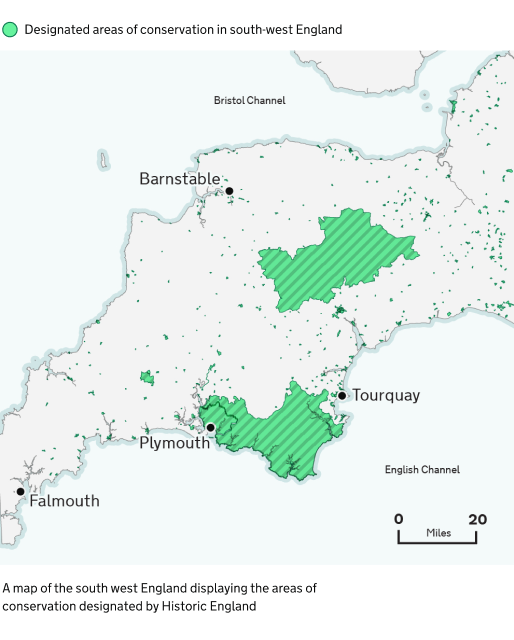
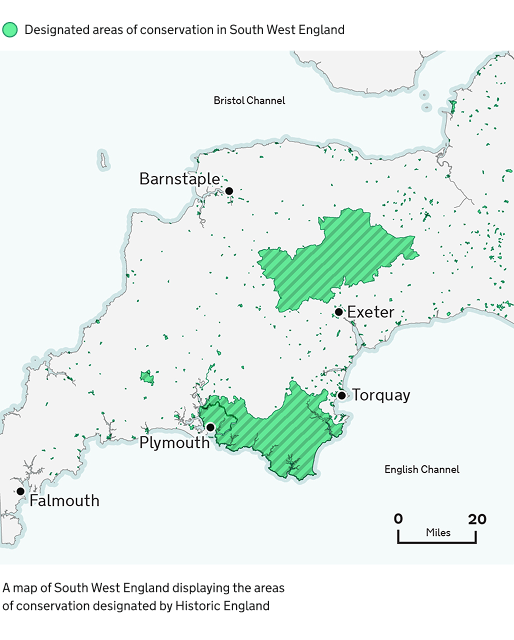
Small content change requests from the Brand team

diff --git a/src/data/maps/index.md b/src/data/maps/index.md
@@ -68,7 +68,7 @@ Secondary features should fall to the background and not be as immediately prese
 
 ### Remove extraneous features
 
-Less is more. If features are not part of a story, feel free to remove them (for example: roads, rivers, rails, pipelines, and even country labels). Feel free to thin out line work.
+Less is more. If features are not part of a story, feel free to thin out networks of line work or remove features that are not part of a story. This can include features such as roads, rivers, rails, pipelines and even country labels.
 
 ### Projections
 
@@ -81,3 +81,33 @@ Ask yourself: What is the map’s purpose and what is the best type of projectio
 Scale bars are not always needed on a map, but are often helpful. If a map has anything to do with distance or shows features that a user would be curious how far apart they are, add a scale bar. If measuring distance is not helpful for the reader to understand the story, do not include one.
 
 Scale bars are not always appropriate on all map projections (for example, Orthographic and Robinson). At global map extents for instance, scale bars are not as useful as the scale may vary significantly from one part of the map to another.
+
+## Map accessibility
+
+When you create maps, make sure they are accessible to everyone.
+
+### Content
+
+Every map should include a text description. This helps users who use screen readers understand what the map is visualising. If the map is simple, a short sentence may be enough. For more complex maps, include a longer explanation near the map or link to a separate page with more detail.
+
+Use clear labels and ensure the structure of the page helps assistive technologies understand the content.
+
+If the map includes important data, provide another way for users to access it, such as a table or written summary.
+
+### Colour
+
+Do not use colour as the only way to show differences on a map. People who are colour blind may not be able to tell certain colours apart.
+
+Use patterns, shapes or clear labels alongside colour to help visualise the data to users.
+
+Make sure there is enough contrast between background colours, lines, labels and any shaded areas.
+
+Good colour contrast helps people with low vision and people using screens in different lighting conditions.
+
+### Test
+
+When you can, test your maps with people who use screen readers or other assistive technologies. This helps you find problems and make improvements based on real needs.
+
+### Example
+
+![Example map of East England highlighting educational facilities in pink. It is pointing out important aspects of maps: the legend at the top, use of clear labels throughout, the scale for geographic reference and the text description a the bottom.](./education-map.png)

diff --git a/src/introduction/index.md b/src/introduction/index.md
@@ -19,7 +19,7 @@ It builds on our recognisable and trusted foundations whilst introducing new ele
 
 The evolved brand is designed to adapt its tone, visuals and motion for different channels, formats and audiences. We call this the ‘inform to inspire’ scale.
 
-On social media, we aim to capture attention and prompt action. On the web, the focus is on helping people find what they need from government services and act.
+On the web, the focus is on helping people find what they need from government services and complete tasks. As the diagram highlights web is aligned to being more informative in its approach, app has flex moving from informative towards being more inspiring and social flexes from inform to inspire on the continuum scale.
 
 The brand can also shift depending on what we're saying. For sensitive topics, we use a more muted and reserved style. For positive content, we can look brighter and bolder.
 

diff --git a/src/colour/index.md b/src/colour/index.md
@@ -5,9 +5,11 @@ landing: true
 lead: Core brand colours, palettes and contrast requirements for accessibility.
 ---
 
-Our colour palette is designed with accessibility in mind. It’s flexible enough to work across all GOV.UK channels.
+Our colour palette is designed with accessibility in mind.
 
-This section explains how to apply colour so it meets accessibility standards and helps everyone understand information clearly.
+However, it remains the responsibility of teams using the colours in the palette to ensure services are WCAG compliant when using colours in combination.
+
+This section explains how to apply colour and helps everyone understand information clearly.
 
 Always use the GOV.UK colour palette alongside other accessibility principles. This includes using accessible colour combinations and ensuring meaning is never conveyed by colour alone.
 

diff --git a/src/graphic-device/dot-use-examples/index.md b/src/graphic-device/dot-use-examples/index.md
@@ -251,21 +251,9 @@ Do not overuse the dot.
 </div>
 <div class="app-border app-border--top">
 
-### Decorative elements
-
-Do not use the dot in a decorative way.
-
-</div>
-<div>
-
-![Crossed out graphic some text, with a dot placed off-centre in the background.](./incorrect-decorative.svg)
-
-</div>
-<div class="app-border app-border--top">
-
 ### Distortions
 
-Do not distort or skew the dot.
+Whilst acceptable in motion under some circumstances, do not distort or skew the dot in static application.
 
 </div>
 <div>
@@ -289,7 +277,7 @@ Do not use stroke versions of the dot.
 
 ### Crops
 
-Do not use abstract crops of the dot.
+Do not crop the dot so that it becomes abstract. Ensure adjacent dots are visible to provide context.
 
 </div>
 <div>

diff --git a/src/logo-system/index.md b/src/logo-system/index.md
@@ -7,7 +7,7 @@ lead: How the GOV.UK wordmark and crown work together in different contexts.
 
 ## The GOV.UK logo system
 
-Our logo represents our visual identity at the very highest level and is vitally important to our brand. This guidance will give you the confidence and knowledge you need to use it correctly.
+Our logo system represents our visual identity at the very highest level and is vitally important to our brand. This guidance will give you the confidence and knowledge you need to use it correctly.
 
 There are two elements to the GOV.UK logo system: the wordmark and crown.
 

diff --git a/src/colour/maps/index.md b/src/colour/maps/index.md
@@ -73,9 +73,7 @@ If you cannot get enough contrast, try breaking the map into simpler versions, a
 
 ### Example
 
-![Example map of South West England with green highlights](./example-map.png)
-
-A map of the South West England displaying the areas of conservation designated by Historic England.
+![Example map of South West England highlighting areas of conservation in green.](./example-map.png)
 
 {% callout %}
 Indicative examples for illustrative purposes only.

diff --git a/src/typography/index.md b/src/typography/index.md
@@ -31,6 +31,8 @@ GDS Transport consists of two weights: light and bold.
 
 ### Glyphs
 
+Glyphs refer to the specific visual representation of a symbol, shapes or forms of characters within a font.
+
 GDS Transport offers a wide range of glyph support. It includes a comprehensive selection of letters, numerals, punctuation, and special symbols, making it suitable for various levels of communications.
 
 GDS Transport Light
